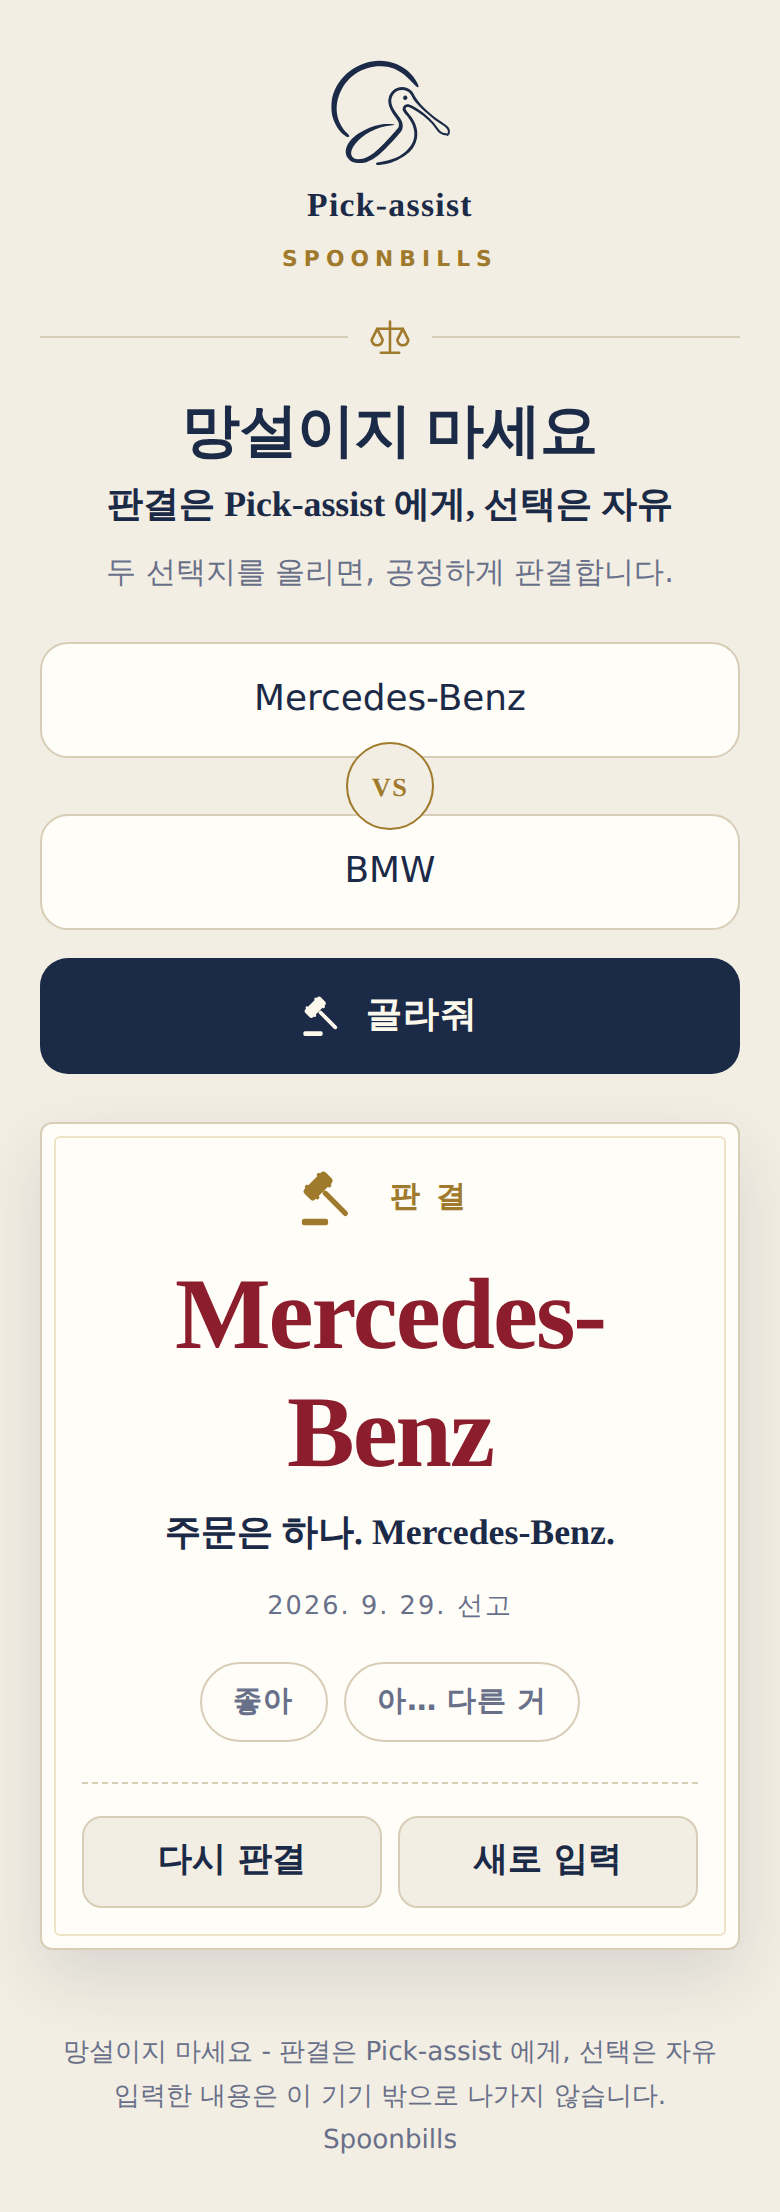
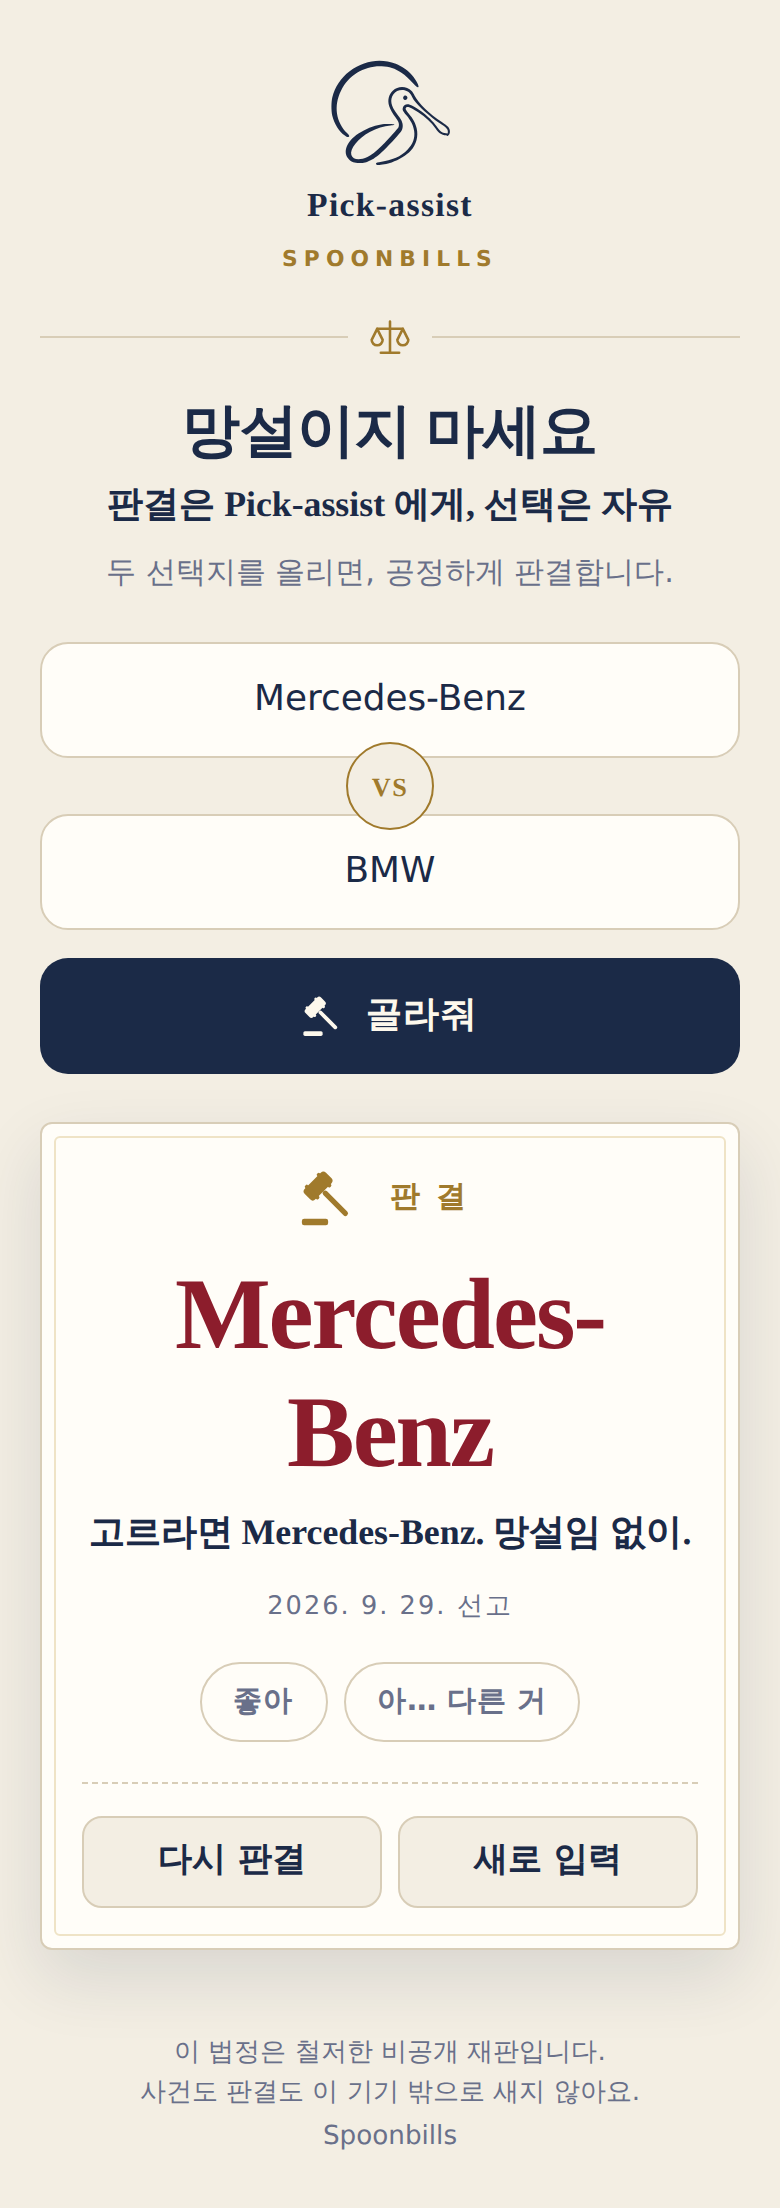
Drop duplicate slogan from footer and lighten the privacy note
The headline already carries the slogan, so the footer repeated it. The
privacy line read stiff; it now says, in courtroom terms, that this is a
closed hearing and neither the case nor the verdict leaves the device,
which matches the no-server, no-storage, CSP-blocked setup. README
screenshots are refreshed to match.

Claude-Session: https://claude.ai/code/session_014ogcCUh2FcYaSCPAqny55n

diff --git a/index.html b/index.html
@@ -691,8 +691,8 @@
     </section>
 
     <footer class="footer">
-      <p>망설이지 마세요 - 판결은 Pick-assist 에게, 선택은 자유</p>
-      <p>입력한 내용은 이 기기 밖으로 나가지 않습니다.</p>
+      <!-- 사실과 맞아야 한다: 서버·저장·전송이 없고 CSP가 외부 요청을 막는다. -->
+      <p>이 법정은 철저한 비공개 재판입니다.<br>사건도 판결도 이 기기 밖으로 새지 않아요.</p>
       <p>Spoonbills</p>
     </footer>
   </main>
